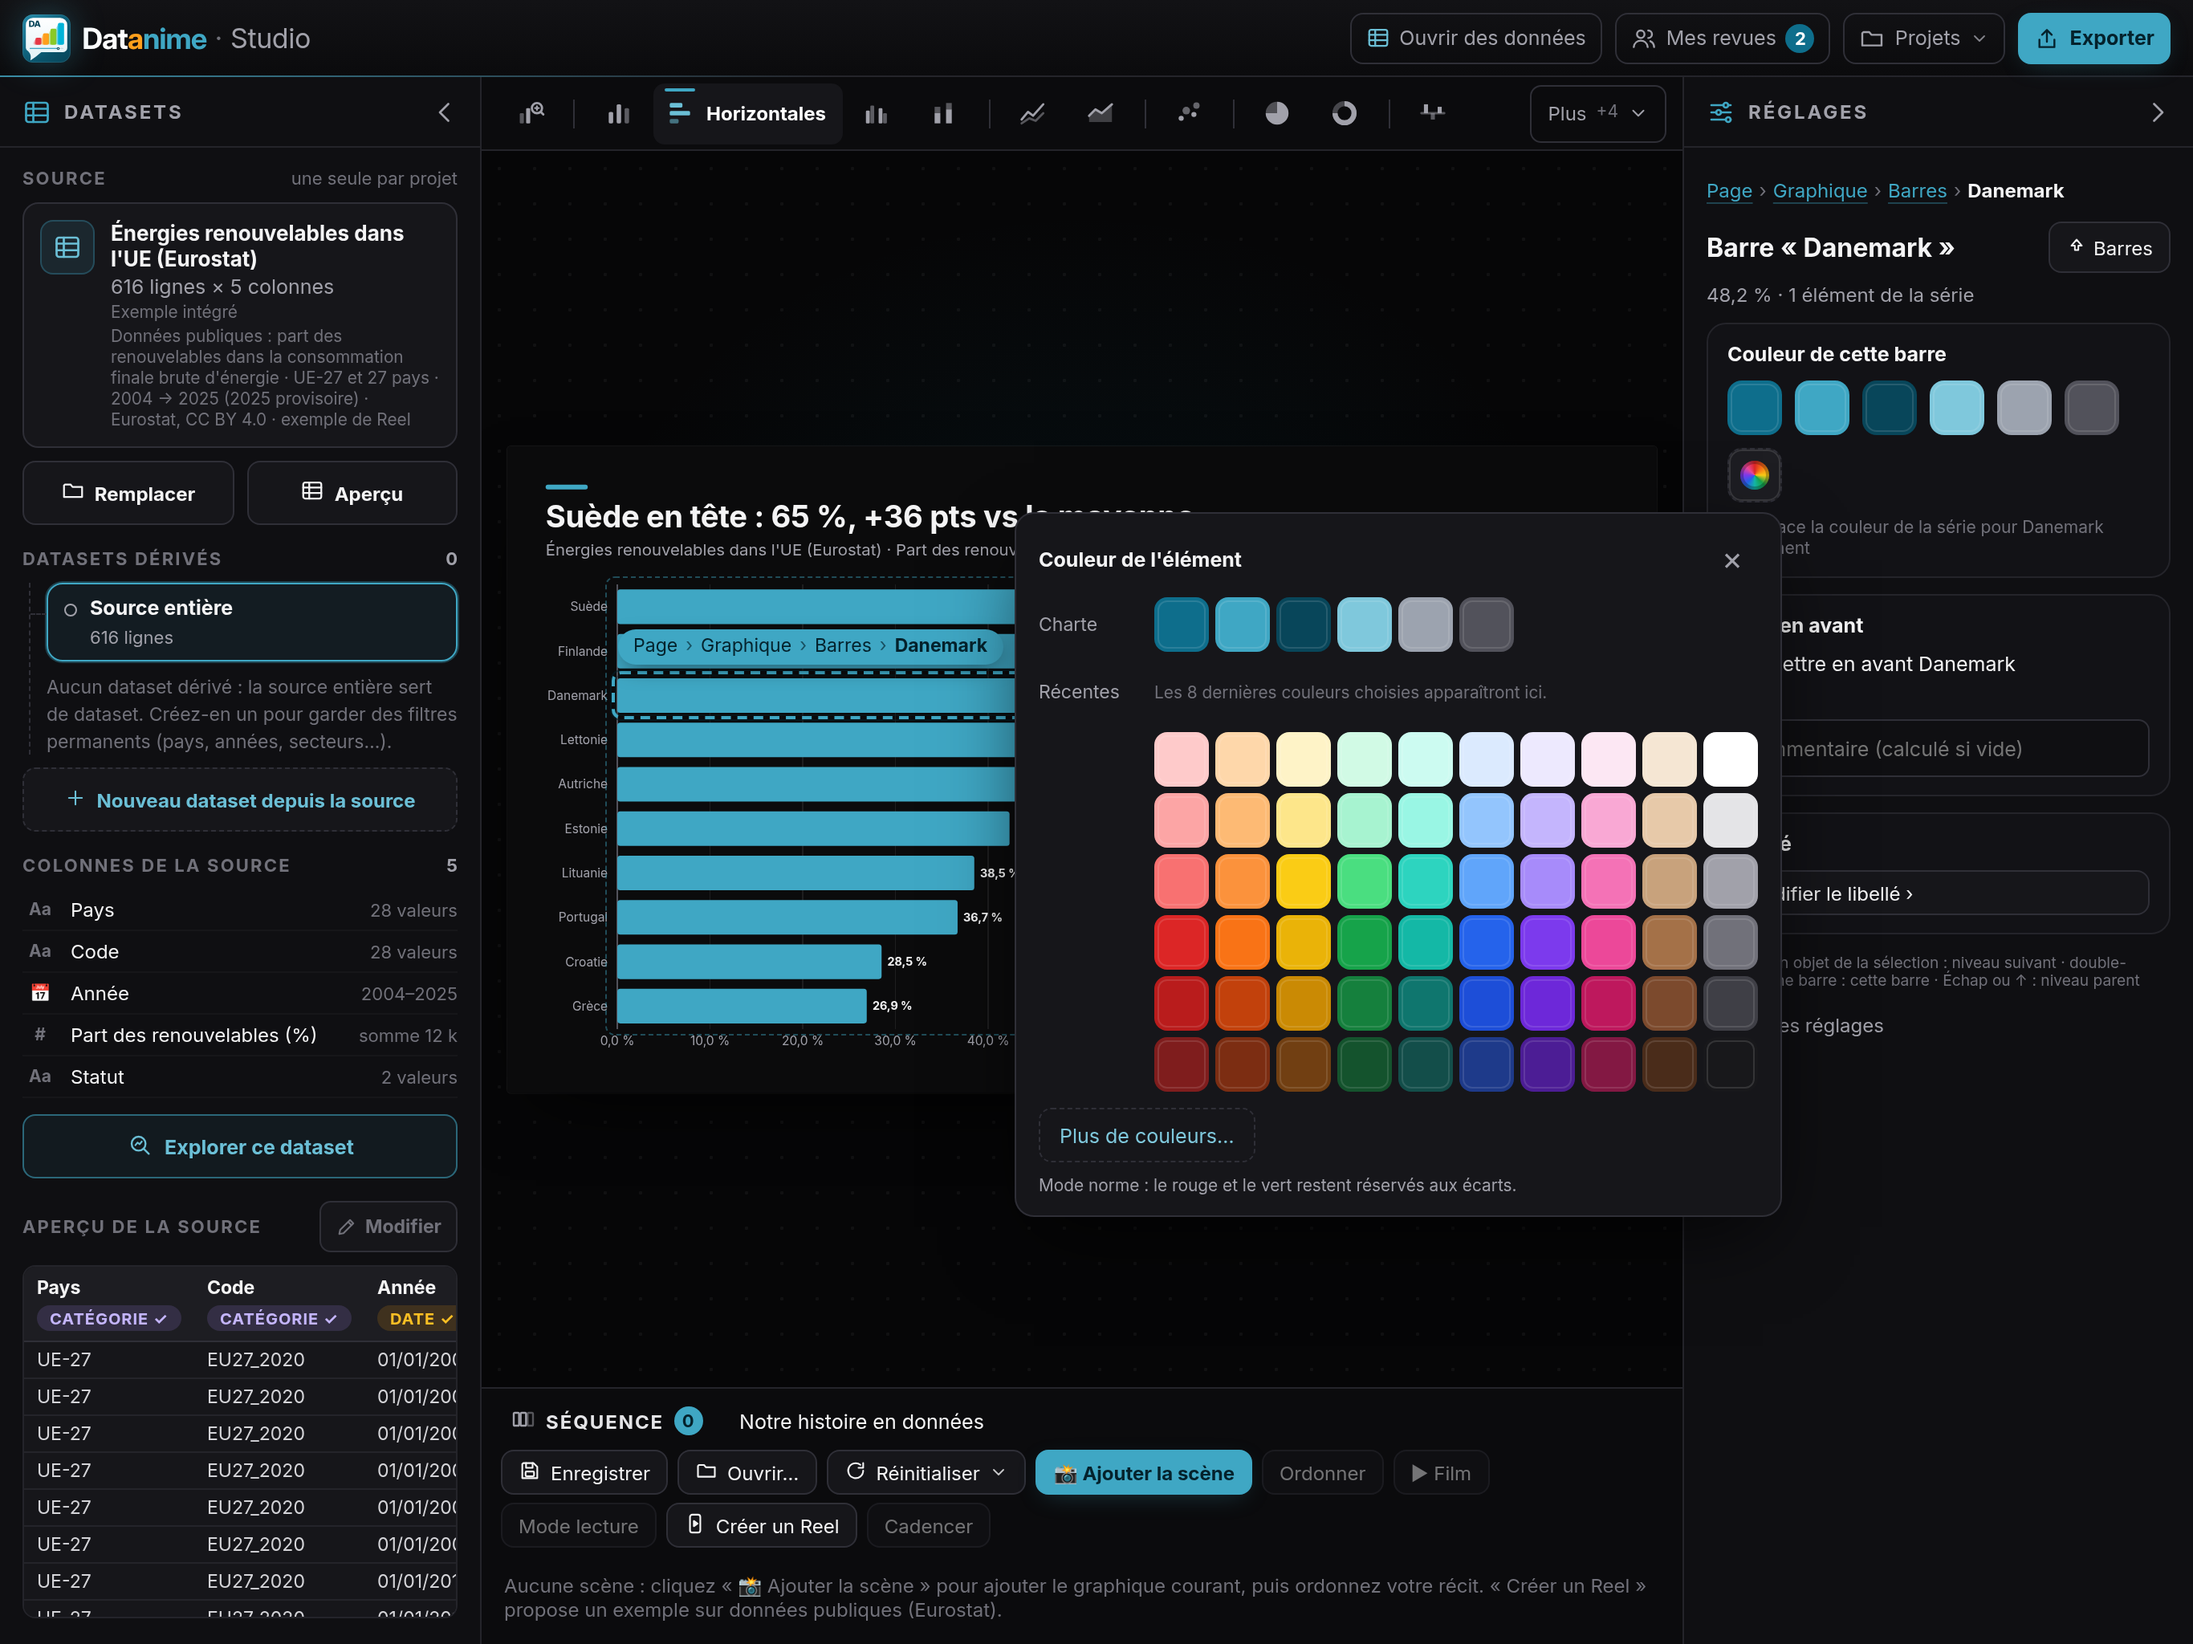
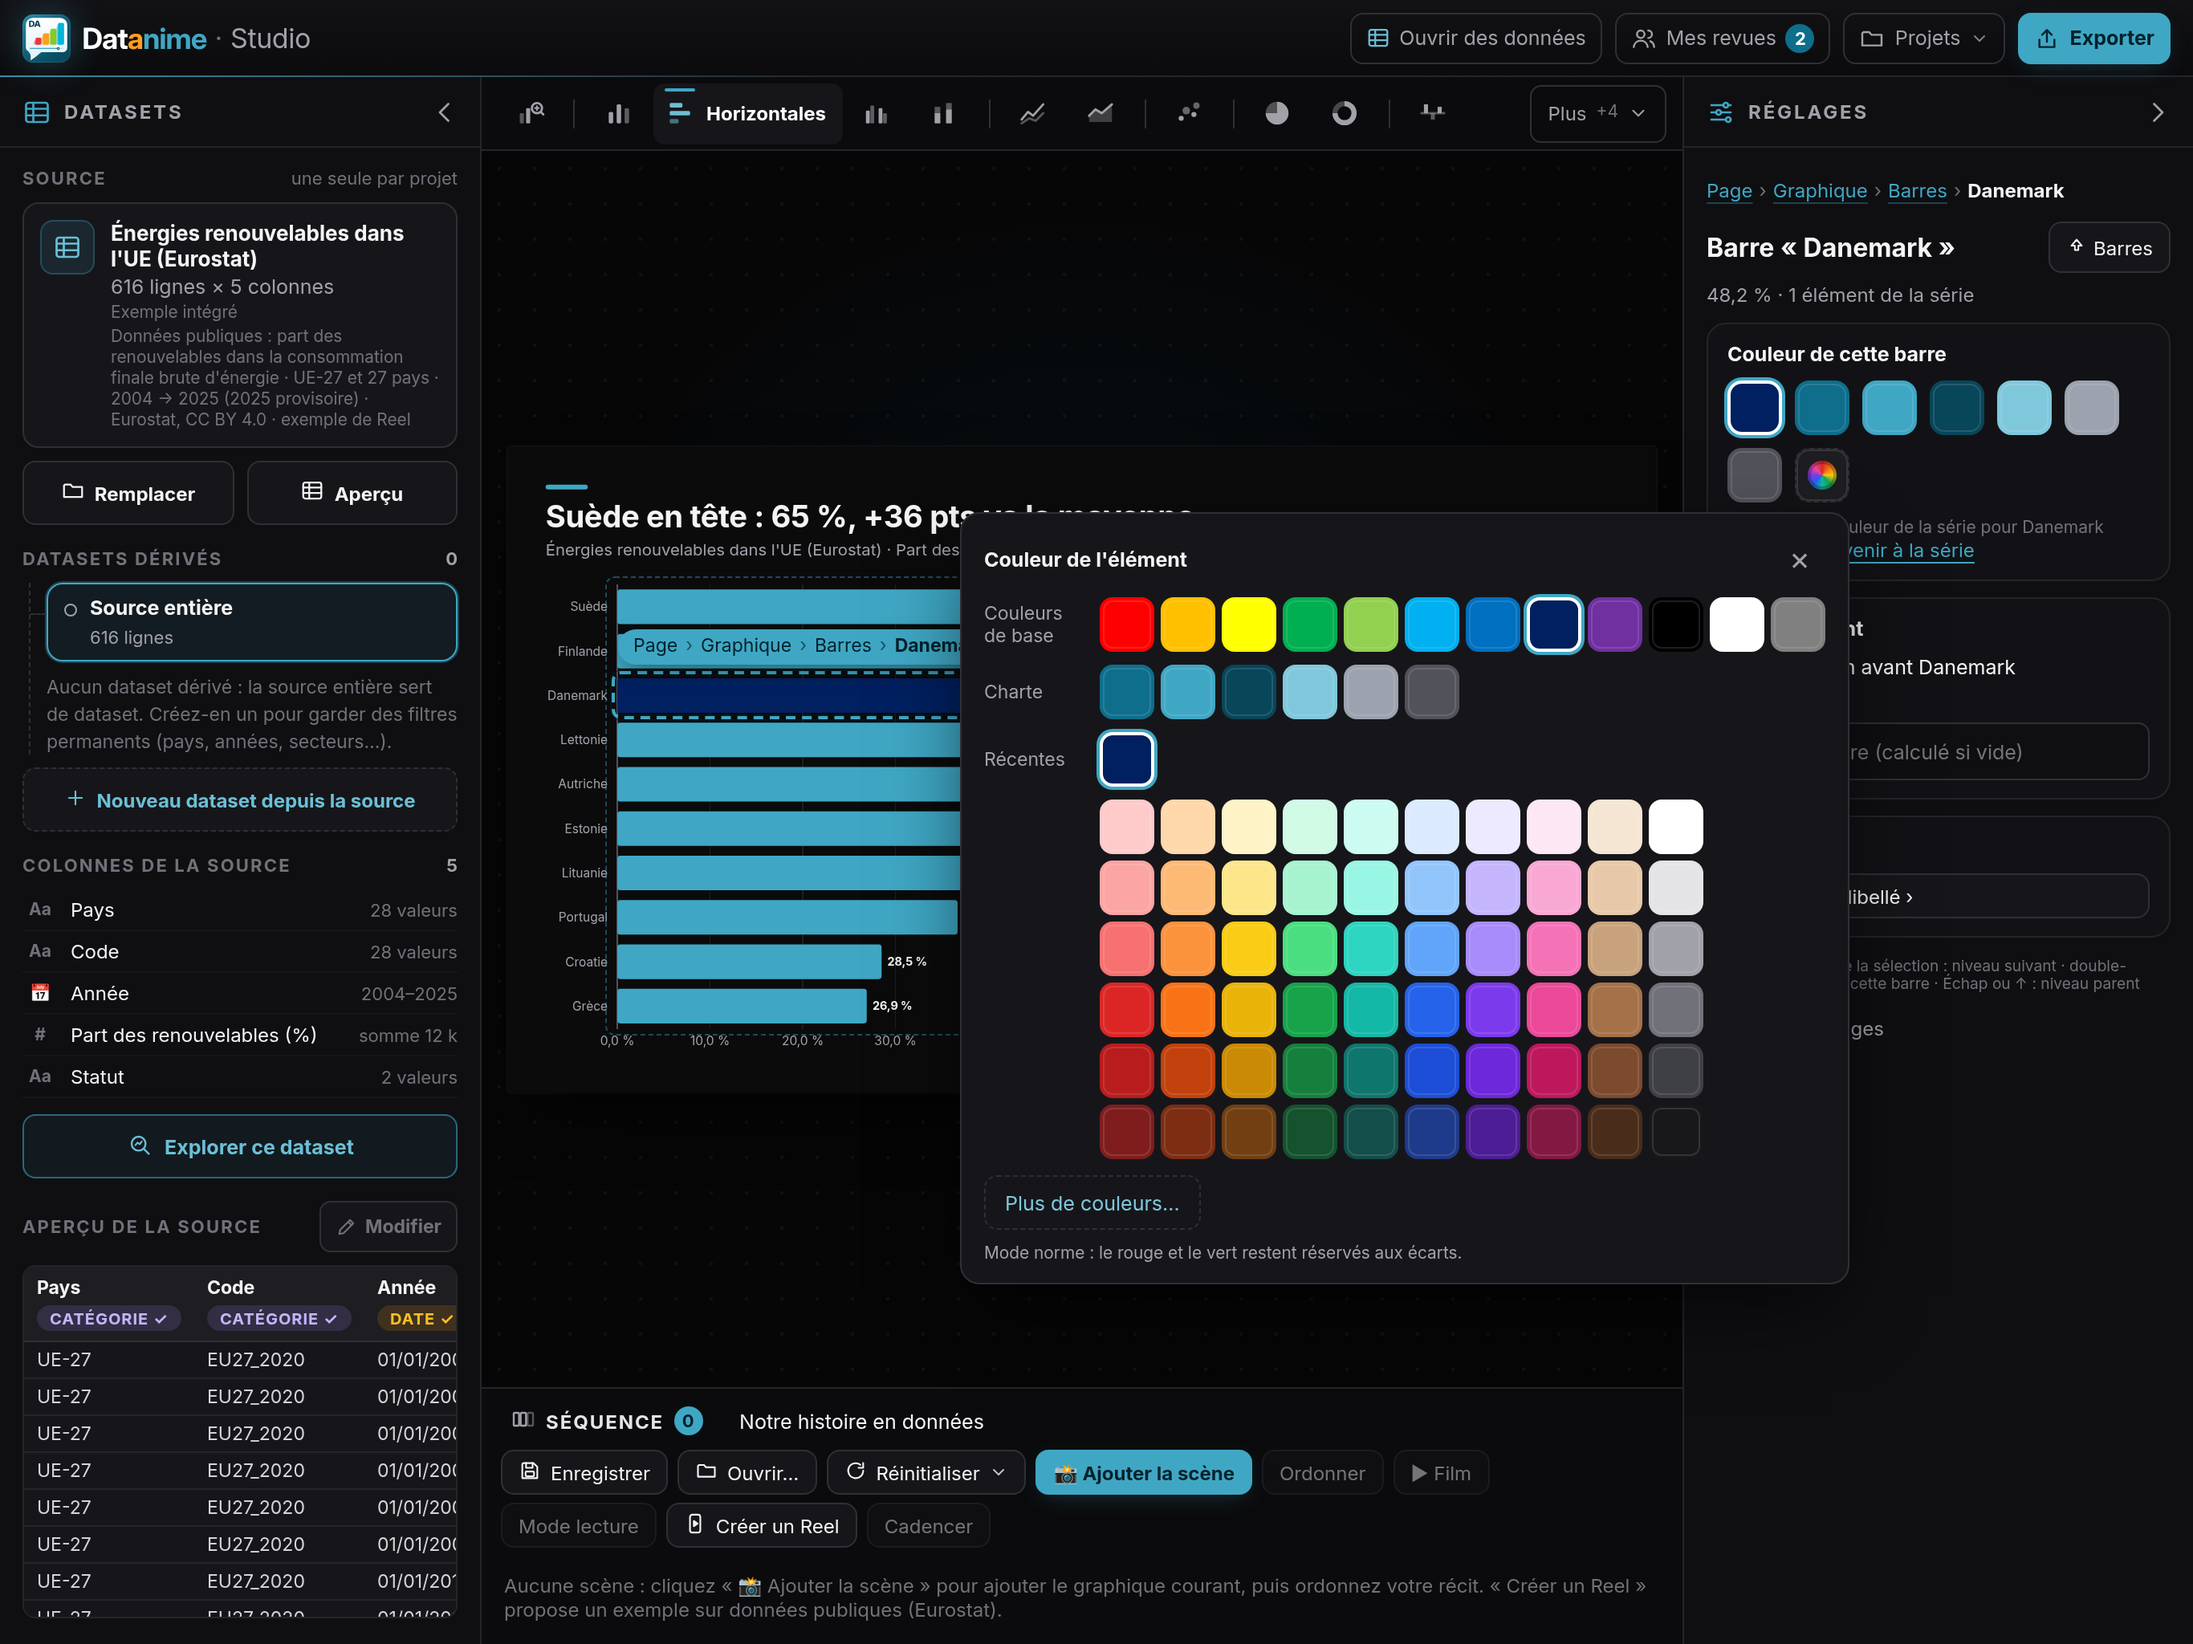
Nuancier : rangée « Couleurs de base » (12 couleurs franches) tout en haut, avant la Charte

Changed region(s): [[0.28, 0.2188, 0.9645, 0.7812], [0.4356, 0.625, 0.4667, 0.6562]]

diff --git a/studio/src/ui/nuancier.ts b/studio/src/ui/nuancier.ts
@@ -1,7 +1,7 @@
 /**
  * Nuancier : choix de couleur commun (couleur de série, d'élément, de libellé, de fond).
  *  - en ligne : les couleurs de la charte (pétrole) + un bouton « Nuancier » ;
- *  - fenêtre « Nuancier » : rangée Charte, rangée « Récentes » (8 dernières couleurs choisies, sur cet appareil),
+ *  - fenêtre « Nuancier » : rangée « Couleurs de base » (couleurs franches, comme les couleurs standard d'un tableur), rangée Charte, rangée « Récentes » (8 dernières couleurs choisies, sur cet appareil),
  *    grille de 60 teintes (colonnes : rouges, oranges, jaunes, verts, turquoises, bleus, violets, roses, bruns, gris ;
  *    rangées : du clair au foncé), lien « Plus de couleurs… » vers le sélecteur complet du navigateur, rappel
  *    « rouge et vert réservés aux écarts » (mode norme).
@@ -26,6 +26,22 @@ export const NUANCIER: { hue: string; swatches: Swatch[] }[] = [
   { hue: "Gris", swatches: [["#FFFFFF", "blanc"], ["#E4E4E7", "gris perle"], ["#A1A1AA", "gris"], ["#71717A", "gris moyen"], ["#3F3F46", "anthracite"], ["#18181B", "noir"]] },
 ];
 
+/** Couleurs de base (franches, à la manière des couleurs standard d'un tableur) : première rangée du nuancier. */
+export const BASE: Swatch[] = [
+  ["#FF0000", "vrai rouge"],
+  ["#FFC000", "orange"],
+  ["#FFFF00", "jaune"],
+  ["#00B050", "vert"],
+  ["#92D050", "vert clair"],
+  ["#00B0F0", "bleu clair"],
+  ["#0070C0", "bleu"],
+  ["#002060", "bleu foncé"],
+  ["#7030A0", "violet"],
+  ["#000000", "noir"],
+  ["#FFFFFF", "blanc"],
+  ["#808080", "gris"],
+];
+
 /** Couleurs de la charte (pétrole) et neutres : rangée « Charte », la première. */
 export const CHARTE: Swatch[] = [
   ["#0E6E8C", "pétrole"],
@@ -44,7 +60,7 @@ const norm = (c: string) => c.trim().toUpperCase();
 /** Nom français d'une couleur connue (charte, nuancier, listes passées) ; sinon une description neutre. */
 export function colorName(hex: string, extra: Swatch[] = []): string {
   const c = norm(hex);
-  for (const [x, n] of [...extra, ...CHARTE, ...NUANCIER.flatMap((col) => col.swatches)]) if (norm(x) === c) return n;
+  for (const [x, n] of [...extra, ...CHARTE, ...BASE, ...NUANCIER.flatMap((col) => col.swatches)]) if (norm(x) === c) return n;
   return "couleur personnalisée";
 }
 
@@ -121,6 +137,7 @@ export function openNuancier(anchor: HTMLElement, o: ColorPickerOpts): HTMLEleme
     "div",
     { class: "nz-pop", role: "dialog", "aria-modal": "false", "aria-label": o.title ? `Nuancier — ${o.title}` : "Nuancier", "data-testid": "nuancier" },
     h("div", { class: "nz-head" }, h("b", null, o.title ?? "Nuancier"), h("button", { type: "button", class: "nz-close", "aria-label": "Fermer le nuancier", title: "Fermer", "data-testid": "nuancier-close", onclick: () => close() }, "×")),
+    row("Couleurs de base", "nuancier-base", BASE.map(([c, n]) => swatchBtn(c, n, o.value, pick))),
     row("Charte", "nuancier-charte", charter.map(([c, n]) => swatchBtn(c, n, o.value, pick))),
     row(
       "Récentes",

diff --git a/studio/test/nuancier.test.ts b/studio/test/nuancier.test.ts
@@ -1,6 +1,6 @@
 /** Nuancier : grille par teinte, noms français uniques, sans code affiché, récentes. */
 import { describe, expect, it } from "vitest";
-import { CHARTE, NUANCIER, RECENT_MAX, colorName, pushRecent } from "../src/ui/nuancier";
+import { BASE, CHARTE, NUANCIER, RECENT_MAX, colorName, pushRecent } from "../src/ui/nuancier";
 
 const lum = (hex: string) => {
   const [r, g, b] = [1, 3, 5].map((i) => parseInt(hex.slice(i, i + 2), 16) / 255);
@@ -32,7 +32,17 @@ describe("nuancier", () => {
     expect(colorName("#0E6E8C")).toBe("pétrole");
     expect(colorName("#123456")).toBe("couleur personnalisée");
   });
-  it("la charte (pétrole) reste la première rangée", () => {
+  it("couleurs de base (franches, comme un tableur) : 12 couleurs nommées, uniques, au-dessus de la charte", () => {
+    expect(BASE.map(([, n]) => n)).toEqual(["vrai rouge", "orange", "jaune", "vert", "vert clair", "bleu clair", "bleu", "bleu foncé", "violet", "noir", "blanc", "gris"]);
+    expect(new Set(BASE.map(([c]) => c)).size).toBe(BASE.length);
+    expect(BASE[0]![0]).toBe("#FF0000");
+    expect(colorName("#002060")).toBe("bleu foncé");
+    for (const [c, n] of BASE) {
+      expect(c).toMatch(/^#[0-9A-F]{6}$/);
+      expect(n).not.toMatch(/#/);
+    }
+  });
+  it("la charte (pétrole) commence par le pétrole", () => {
     expect(CHARTE[0]).toEqual(["#0E6E8C", "pétrole"]);
   });
   it("récentes : la dernière en tête, sans doublon, 8 au plus", () => {

diff --git a/studio/README.md b/studio/README.md
@@ -734,7 +734,9 @@ la même façon.
     **Ce libellé / Toute la série**, « Rétablir le libellé calculé ».
 - **Couleurs proposées** : bleu pétrole (#0E6E8C, #3FA7C4, #08465A), bleu glacier et gris, puis le bouton
   **Nuancier** (`ui/nuancier.ts`, composant commun à la couleur de série, d'élément, de libellé et de fond) :
-  - rangée **Charte** (pétrole) en tête, rangée **Récentes** (8 dernières couleurs choisies, sur cet appareil,
+  - rangée **Couleurs de base** tout en haut (12 couleurs franches, comme les couleurs standard d'un tableur : vrai
+    rouge, orange, jaune, vert, vert clair, bleu clair, bleu, bleu foncé, violet, noir, blanc, gris), puis rangée
+    **Charte** (pétrole), rangée **Récentes** (8 dernières couleurs choisies, sur cet appareil,
     `localStorage` « datanime.couleursRecentes ») ;
   - grille de 60 pastilles : 10 colonnes de teintes (rouges, oranges, jaunes, verts, turquoises, bleus, violets, roses,
     bruns, gris), 6 rangées du clair au foncé ; chaque pastille porte un nom français (infobulle et `aria-label`,
